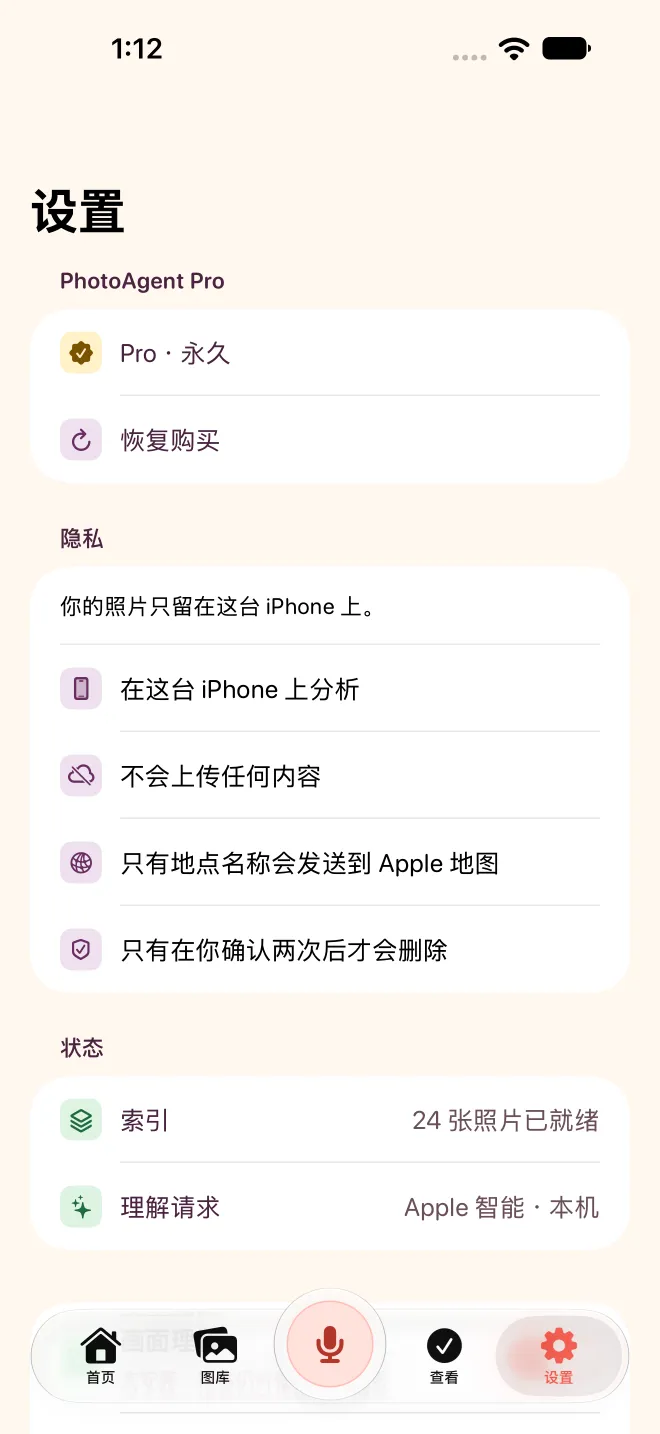
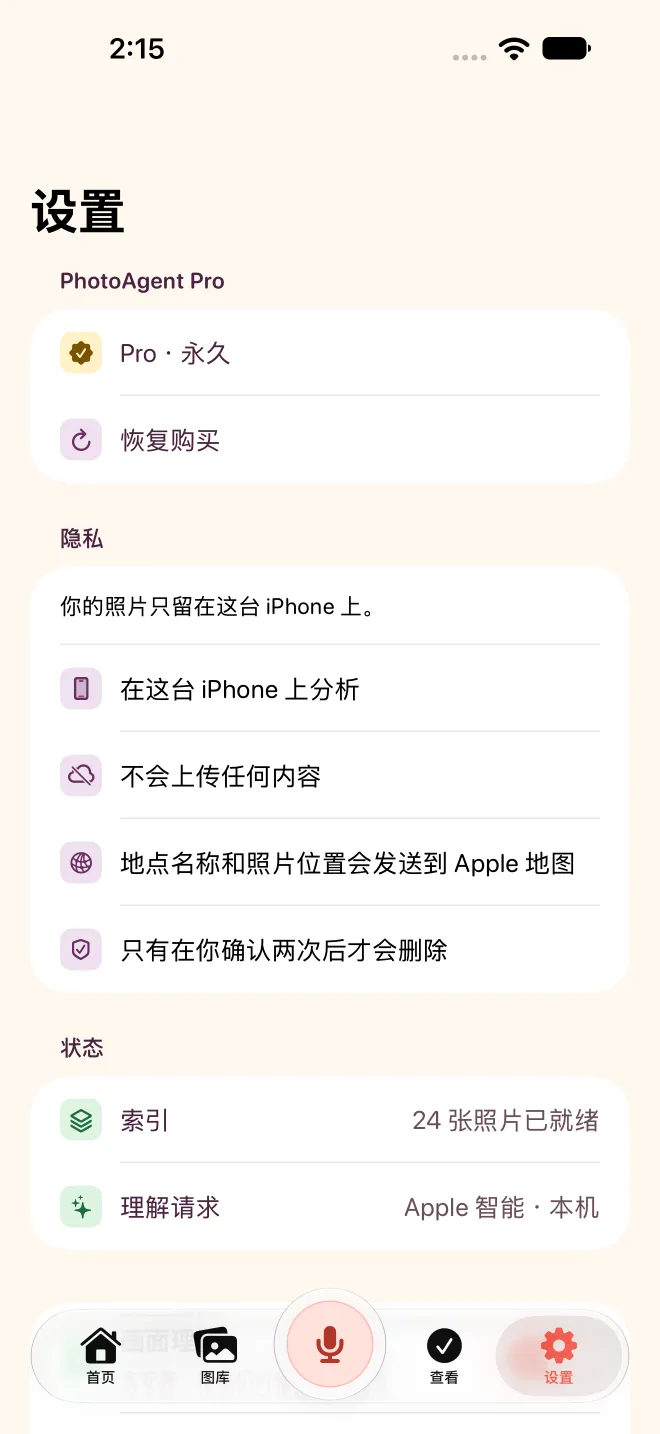
PhotoAgent page: review fixes
- /photoagent has its own Open Graph and Twitter card and the PhotoAgent icons,
  so a shared link no longer shows the résumé's card.
- Header: the language button never wraps (zh at 360 px) and the wordmark no
  longer runs under the controls at 320 px (hidden below 360 px).
- theme-color follows the page's theme when the toggle differs from the system.
- The iOS-style alert draws its focus ring inside the buttons.
- Voice: iOS may need to download a language's speech model; no time claim.
- Gallery and hero screenshots retaken on fresh seeded simulators, one per
  language: no leftover recent requests, street and landmark names on as by
  default (Apple Maps stand-in), no photo-descriptions note.

Changed region(s): [[0.1818, 0.583, 0.8788, 0.6137], [0.1818, 0.0307, 0.2424, 0.0614]]

diff --git a/src/components/photoagent/Navbar.tsx b/src/components/photoagent/Navbar.tsx
@@ -33,9 +33,9 @@ export default function Navbar({ dict, lang, languageLabel }: { dict: Dictionary
       style={{ background: scrolled || menuOpen ? 'color-mix(in srgb, var(--pa-page) 88%, transparent)' : 'transparent' }}
     >
       <nav className="max-w-[1200px] mx-auto px-4 sm:px-6 h-16 flex items-center justify-between gap-2" aria-label="PhotoAgent">
-        <a href="#top" className="flex items-center gap-2.5 min-h-[44px]" aria-label={dict.home}>
-          <Image src={ICON_SRC} alt="" width={32} height={32} className="w-8 h-8 rounded-[9px]" />
-          <span className="text-base font-bold text-[color:var(--pa-title)]">PhotoAgent</span>
+        <a href="#top" className="flex min-w-0 items-center gap-2.5 min-h-[44px]" aria-label={dict.home}>
+          <Image src={ICON_SRC} alt="" width={32} height={32} className="w-8 h-8 shrink-0 rounded-[9px]" />
+          <span className="hidden min-[360px]:inline truncate text-base font-bold text-[color:var(--pa-title)]">PhotoAgent</span>
         </a>
         <ul className="hidden md:flex items-center gap-1">
           {links.map((l) => (
@@ -46,7 +46,7 @@ export default function Navbar({ dict, lang, languageLabel }: { dict: Dictionary
             </li>
           ))}
         </ul>
-        <div className="flex items-center gap-1">
+        <div className="flex shrink-0 items-center gap-1">
           <LanguageSwitcher current={lang} label={languageLabel} />
           <ThemeToggle label={dict.theme} />
           <a

diff --git a/src/app/photoagent/page.tsx b/src/app/photoagent/page.tsx
@@ -1,6 +1,7 @@
 import type { Metadata } from 'next';
 import LanguageRedirect from '@/components/photoagent/LanguageRedirect';
-import { LANGUAGE_NAMES, LOCALES, HREFLANG, pageUrl } from '@/components/photoagent/site';
+import { en } from '@/components/photoagent/dictionaries/en';
+import { LANGUAGE_NAMES, LOCALES, HREFLANG, OG_IMAGE, pageUrl } from '@/components/photoagent/site';
 
 export const metadata: Metadata = {
   title: { absolute: 'PhotoAgent' },
@@ -13,6 +14,25 @@ export const metadata: Metadata = {
     ]),
   },
   robots: { index: false, follow: true },
+  icons: {
+    icon: [{ url: '/photoagent/favicon.png', type: 'image/png' }],
+    apple: '/photoagent/apple-touch-icon.png',
+  },
+  // Its own card, so a shared /photoagent link doesn't show the résumé's (scrapers don't follow the JS redirect).
+  openGraph: {
+    type: 'website',
+    siteName: 'PhotoAgent',
+    url: pageUrl('en'),
+    title: en.metadata.ogTitle,
+    description: en.metadata.ogDescription,
+    images: [{ url: OG_IMAGE, width: 1200, height: 630, alt: 'PhotoAgent' }],
+  },
+  twitter: {
+    card: 'summary_large_image',
+    title: en.metadata.ogTitle,
+    description: en.metadata.ogDescription,
+    images: [OG_IMAGE],
+  },
 };
 
 // Pick the visitor's language before React loads, so the redirect happens at once. Same rule as pickLocale().

diff --git a/src/components/photoagent/ThemeToggle.tsx b/src/components/photoagent/ThemeToggle.tsx
@@ -1,10 +1,23 @@
 'use client';
 
+import { useEffect } from 'react';
 import { useTheme } from 'next-themes';
+
+// The page's background in each theme; kept in step with the viewport themeColor in app/photoagent/[lang]/page.tsx.
+const CHROME = { light: '#FFF7EF', dark: '#1B1320' } as const;
 
 /** Switches the cv site's light and dark theme (next-themes), which the PhotoAgent palette follows. */
 export default function ThemeToggle({ label }: { label: string }) {
   const { resolvedTheme, setTheme } = useTheme();
+
+  // theme-color is keyed on the system scheme; when the page's own theme differs, make the browser chrome follow the page.
+  useEffect(() => {
+    if (resolvedTheme !== 'light' && resolvedTheme !== 'dark') return;
+    const metas = Array.from(document.querySelectorAll<HTMLMetaElement>('meta[name="theme-color"]'));
+    const original = metas.map((m) => m.content);
+    metas.forEach((m) => (m.content = CHROME[resolvedTheme]));
+    return () => metas.forEach((m, i) => (m.content = original[i]));
+  }, [resolvedTheme]);
   return (
     <button
       type="button"

diff --git a/src/components/photoagent/CleanupDemo.tsx b/src/components/photoagent/CleanupDemo.tsx
@@ -371,7 +371,7 @@ export default function CleanupDemo({ dict }: { dict: Dictionary['cleanupDemo'] 
                       <button
                         type="button"
                         onClick={cancel}
-                        className="min-h-[44px] text-[16px]"
+                        className="min-h-[44px] text-[16px] pa-inset-focus"
                         style={{ color: 'var(--pa-system-blue)', borderRight: '0.5px solid var(--pa-system-divider)' }}
                       >
                         {dict.systemDontAllow}
@@ -380,7 +380,7 @@ export default function CleanupDemo({ dict }: { dict: Dictionary['cleanupDemo'] 
                         ref={systemConfirmRef}
                         type="button"
                         onClick={confirmSystem}
-                        className="min-h-[44px] text-[16px] font-semibold"
+                        className="min-h-[44px] text-[16px] font-semibold pa-inset-focus"
                         style={{ color: 'var(--pa-system-red)' }}
                       >
                         {dict.systemDelete}

diff --git a/src/components/photoagent/LanguageSwitcher.tsx b/src/components/photoagent/LanguageSwitcher.tsx
@@ -52,9 +52,9 @@ export default function LanguageSwitcher({
         onClick={() => setOpen((o) => !o)}
         aria-expanded={open}
         aria-controls={open ? listId : undefined}
-        className={`flex items-center gap-1.5 px-3 min-h-[40px] text-sm font-semibold rounded-full transition-colors ${buttonTone}`}
+        className={`flex shrink-0 items-center gap-1.5 whitespace-nowrap px-2 sm:px-3 min-h-[40px] text-sm font-semibold rounded-full transition-colors ${buttonTone}`}
       >
-        <svg viewBox="0 0 24 24" className="w-4 h-4" fill="none" stroke="currentColor" strokeWidth={1.8} aria-hidden="true">
+        <svg viewBox="0 0 24 24" className="w-4 h-4 shrink-0 max-[379px]:hidden" fill="none" stroke="currentColor" strokeWidth={1.8} aria-hidden="true">
           <circle cx="12" cy="12" r="8.5" />
           <path d="M3.5 12 L20.5 12 M12 3.5 Q16 8 16 12 Q16 16 12 20.5 Q8 16 8 12 Q8 8 12 3.5 Z" />
         </svg>

diff --git a/src/components/photoagent/dictionaries/ja.ts b/src/components/photoagent/dictionaries/ja.ts
@@ -114,7 +114,7 @@ export const ja: Dictionary = {
         exampleLabel: '例えば',
         points: [
             '話した言葉は、Apple のオンデバイス音声認識で iPhone の中で文字になります。音声は保存も送信もされません。',
-            'ある言語を初めて使うときは、iOS がその言語の音声モデルをダウンロードします。1〜2 分かかることがあります。',
+            'ある言語を初めて使うときは、iOS がその言語の音声モデルをダウンロードする場合があります。',
             'Siri とショートカットに対応：“Ask PhotoAgent”（Siri が英語または中国語のとき）。',
         ],
     },

diff --git a/src/components/photoagent/dictionaries/ko.ts b/src/components/photoagent/dictionaries/ko.ts
@@ -113,7 +113,7 @@ export const ko: Dictionary = {
         exampleLabel: '예를 들어',
         points: [
             '말한 내용은 Apple의 온디바이스 음성 인식으로 iPhone에서 글자로 바뀝니다. 오디오는 저장하거나 보내지 않습니다.',
-            '어떤 언어를 처음 쓸 때 iOS가 그 언어의 음성 모델을 내려받습니다. 1~2분 걸릴 수 있습니다.',
+            '어떤 언어를 처음 쓸 때 iOS가 그 언어의 음성 모델을 내려받아야 할 수 있습니다.',
             'Siri와 단축어 지원: “Ask PhotoAgent”(Siri가 영어나 중국어일 때).',
         ],
     },

diff --git a/src/components/photoagent/dictionaries/fr.ts b/src/components/photoagent/dictionaries/fr.ts
@@ -126,7 +126,7 @@ export const fr: Dictionary = {
         exampleLabel: 'Par exemple',
         points: [
             'Vos mots sont transcrits sur votre iPhone par la reconnaissance vocale d’Apple intégrée à l’appareil. L’audio n’est jamais enregistré ni envoyé.',
-            'La première fois dans une langue, iOS télécharge son modèle vocal. Cela peut prendre une minute ou deux.',
+            'La première fois que vous utilisez une langue, iOS peut avoir besoin de télécharger son modèle vocal.',
             'Fonctionne avec Siri et Raccourcis : « Ask PhotoAgent » (Siri en anglais ou en chinois).',
         ],
     },

diff --git a/src/components/photoagent/dictionaries/es.ts b/src/components/photoagent/dictionaries/es.ts
@@ -125,7 +125,7 @@ export const es: Dictionary = {
         exampleLabel: 'Por ejemplo',
         points: [
             'Tus palabras se convierten en texto en tu iPhone con el reconocimiento de voz de Apple en el dispositivo. El audio nunca se guarda ni se envía.',
-            'La primera vez que usas un idioma, iOS descarga su modelo de voz. Puede tardar uno o dos minutos.',
+            'La primera vez que usas un idioma, puede que iOS necesite descargar su modelo de voz.',
             'Funciona con Siri y Atajos: “Ask PhotoAgent” (con Siri en inglés o chino).',
         ],
     },

diff --git a/src/components/photoagent/dictionaries/en.ts b/src/components/photoagent/dictionaries/en.ts
@@ -282,7 +282,7 @@ export const en: Dictionary = {
         exampleLabel: 'For example',
         points: [
             'Your words are turned into text on your iPhone with Apple’s on-device speech recognition. Audio is never saved or sent.',
-            'The first time in a language, iOS downloads its speech model. This can take a minute or two.',
+            'The first time you use a language, iOS may need to download its speech model.',
             'Works with Siri and Shortcuts: “Ask PhotoAgent”.',
         ],
     },

diff --git a/src/components/photoagent/dictionaries/zh.ts b/src/components/photoagent/dictionaries/zh.ts
@@ -109,7 +109,7 @@ export const zh: Dictionary = {
         exampleLabel: '比如',
         points: [
             '你说的话用 Apple 的本机语音识别在 iPhone 上转成文字。录音不保存，也不发送。',
-            '第一次使用某种语言时，iOS 需要下载它的语音模型，可能要一两分钟。',
+            '第一次使用某种语言时，iOS 可能需要下载它的语音模型。',
             '支持 Siri 和快捷指令：“问问 PhotoAgent”。',
         ],
     },

diff --git a/src/components/photoagent/photoagent.css b/src/components/photoagent/photoagent.css
@@ -100,6 +100,11 @@
   border-radius: 6px;
 }
 
+/* Buttons flush with a clipped edge (the iOS-style alert) draw their ring inside. */
+.pa-root .pa-inset-focus:focus-visible {
+  outline-offset: -3px;
+}
+
 .pa-root .pa-skip-link {
   position: absolute;
   left: 16px;
